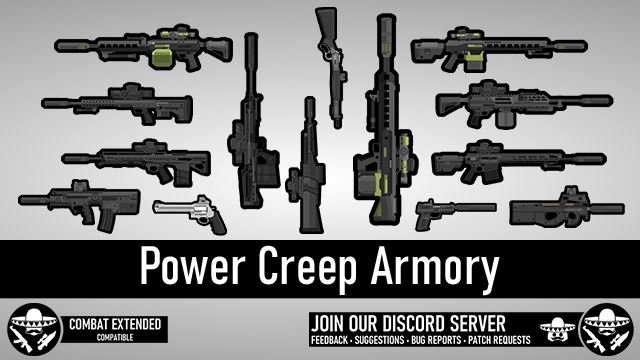
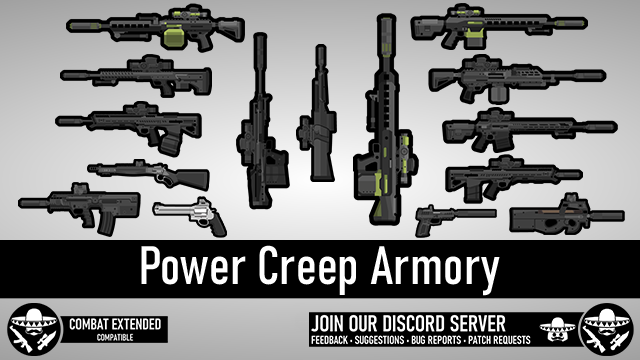
RM277 SAW

Changed region(s): [[0.0312, 0.0, 0.5625, 0.6722], [0.625, 0.0, 1.0, 0.6722]]

diff --git a/README.md b/README.md
@@ -16,6 +16,7 @@ Compatible with both the vanilla combat system and CE.
 - Big Horn Armory Model 89 Black Thunder Tactical
 - IWI Micro Tavor X95 Tactical
 - LoneStar Future Weapons RM277 Tactical
+- LoneStar Future Weapons RM277 SAW Tactical
 - Neopup PAW-20 Tactical
 - SWORD International Mk-18 Mod 1 Mjölnir Tactical
 - B-8 advanced charge BR
